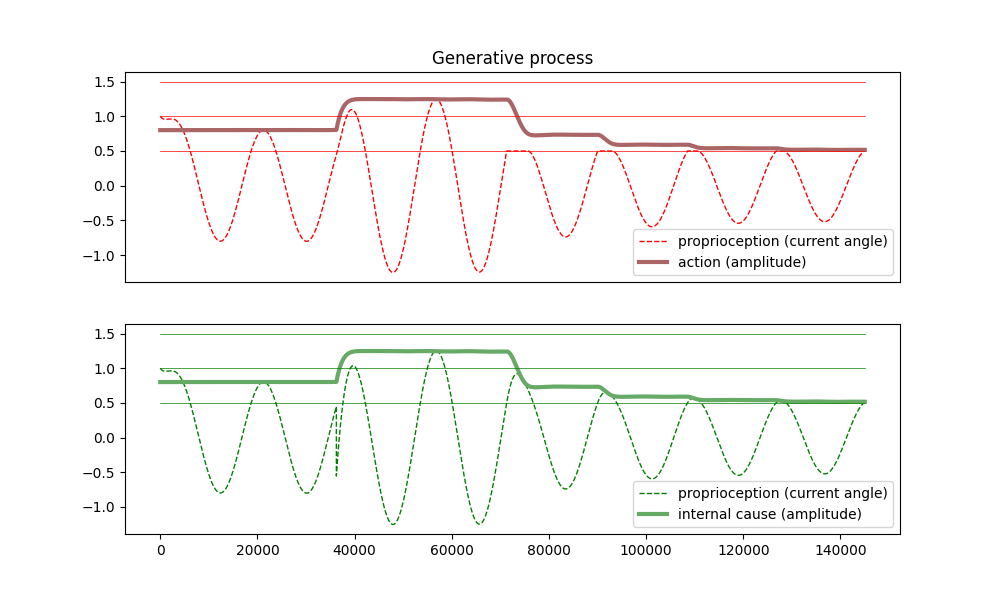
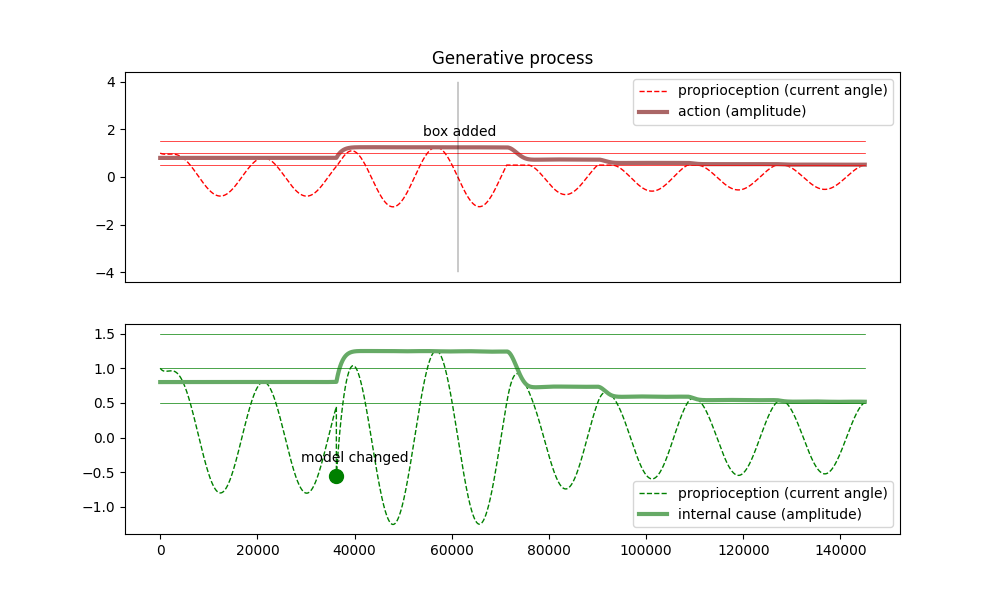
updated videos

diff --git a/demo.py b/demo.py
@@ -1,3 +1,4 @@
+import matplotlib.patches as patches
 from sim import Sim
 from aisailib import GP, GM
 import matplotlib.pyplot as plt
@@ -23,15 +24,17 @@ for type in ["normal", "attenuation"]:
     ampl_model = np.zeros(stime)
 
     peaks = 0
+    peaks_max = 3
+    box_time = 0
     for t in range(stime):
 
         gp.update(delta_action)
-        gm.mu_x[2] += -1*(t==(stime//4))
+        gm.mu_x[2] += -1*(t == (stime//4))
         if type != "normal":
-            gm.pi_s -= 8.9*(t==(3*stime//8))
-            gm.pi_s += 8.9*(t==(5*stime//8))
+            gm.pi_s -= 8.9*(t == (3*stime//8))
+            gm.pi_s += 8.9*(t == (5*stime//8))
 
-        if peaks > 3:
+        if peaks > peaks_max:
             gp.mu_x[2] = np.minimum(0.5, gp.mu_x[2])
 
         sens[t] = gp.mu_x[2]
@@ -45,8 +48,10 @@ for type in ["normal", "attenuation"]:
             if dd == 0 and sens[t-1] > 0:
                 peaks += 1
                 print(peaks)
+                if peaks == peaks_max+1:
+                    box_time = t
         if t % 1200 == 0 or t == stime - 1:
-            if peaks > 3:
+            if peaks > peaks_max:
                 sim.set_box([0, 1.48])
             sim.update(0.3*np.pi*sens[t], 0.3*np.pi*sens_model[t])
     sim.close()
@@ -59,15 +64,25 @@ for type in ["normal", "attenuation"]:
     plt.plot([0, stime], [1.5, 1.5], c="red", lw=0.5)
     plt.plot([0, stime], [1, 1], c="red", lw=0.5)
     plt.plot([0, stime], [0.5, 0.5], c="red", lw=0.5)
+    plt.text(box_time-(stime//20), 1.7, "box added")
+    plt.plot([box_time, box_time], [-4, 4], c="black", lw=0.3)
     plt.xticks([])
     plt.legend([s, a], ["proprioception (current angle)",
                         "action (amplitude)"])
-    plt.subplot(212)
+    ax = plt.subplot(212)
     x, = plt.plot(sens_model, c="green", lw=1, ls="dashed")
     n, = plt.plot(ampl_model, c="#66aa66", lw=3)
     plt.plot([0, stime], [1.5, 1.5], c="green", lw=0.5)
     plt.plot([0, stime], [1, 1], c="green", lw=0.5)
     plt.plot([0, stime], [0.5, 0.5], c="green", lw=0.5)
+    plt.text(stime//4-(stime//20), sens_model[stime//4] + 0.2, "model changed")
+    plt.scatter(stime//4, sens_model[stime//4], c="green", s=100)
+    if type != "normal":
+        rect = patches.Rectangle((3*stime//8, -1.5), 2*stime//8, 3,
+                                 edgecolor='none', facecolor=[.6, .6,.6, .3])
+        ax.add_patch(rect)
+
+
     plt.legend([x, n], ["proprioception (current angle)",
                         "internal cause (amplitude)"])
     plt.savefig("demo"+type+".png")
